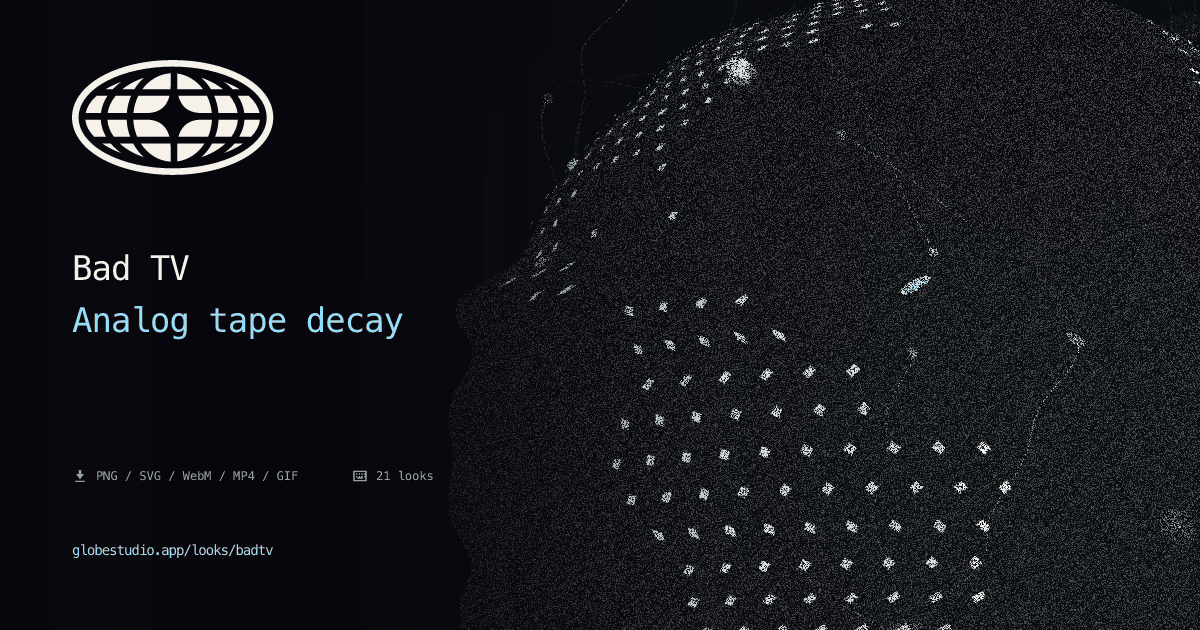
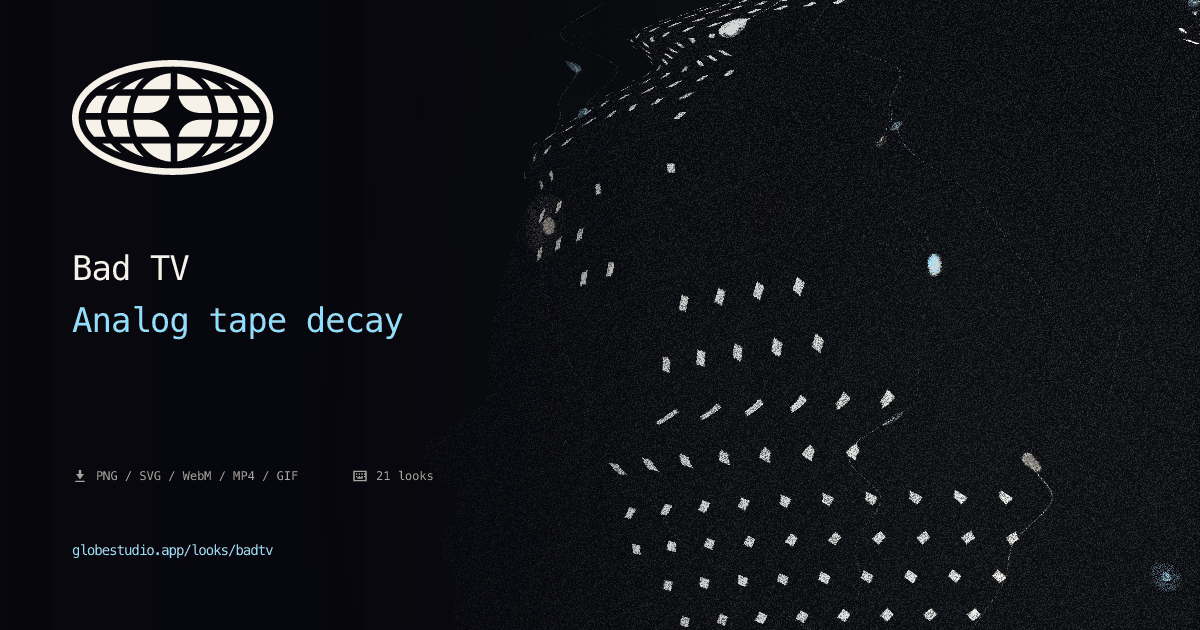
fix(badtv): turn the static down so the map shows through
Bad TV added white noise at 5 times its strength, the value from the
reference shader. At the look's intensity of 65 that saturated every
pixel of the globe, so the static covered the sphere and hid most of the
map. At 1.8 it still reads as a bad signal and the continents stay
visible. The share card is regenerated from the new output.

Changed region(s): [[0.37, 0.0, 1.0, 1.0], [0.4625, 0.0905, 0.4933, 0.1206]]

diff --git a/src/three/post-effects.js b/src/three/post-effects.js
@@ -925,9 +925,10 @@ const FRAGMENT_SHADER = /* glsl */ `
 
     vec4 src = sampleTex(distorted);
     vec3 color = src.rgb;
-    // Coarse white-noise overlay — looks like analog snow on top of the
-    // distorted feed.
-    color += vec3(5.0 * strength * (rand(uv + 1.133 * vec2(t, 1.13)) - 0.5));
+    // Coarse white-noise overlay, like analog snow on top of the distorted
+    // feed. At 5.0 (the reference's value) the snow covered the whole globe
+    // and hid the map; 1.8 keeps it reading as a bad signal.
+    color += vec3(1.8 * strength * (rand(uv + 1.133 * vec2(t, 1.13)) - 0.5));
     return vec4(color, src.a);
   }
 

diff --git a/CHANGELOG.md b/CHANGELOG.md
@@ -27,6 +27,8 @@ All notable changes to Globestudio are tracked here. Format follows
   It turns off the glow halo around the globe, previews at one device pixel
   and says so in a notice that can turn the effects back on. Designs and
   share links are unchanged.
+- Bad TV's static is about a third as strong, so the map shows through it.
+  It used to cover the whole globe.
 
 ## [1.0.0] - 2026-09-28
 
